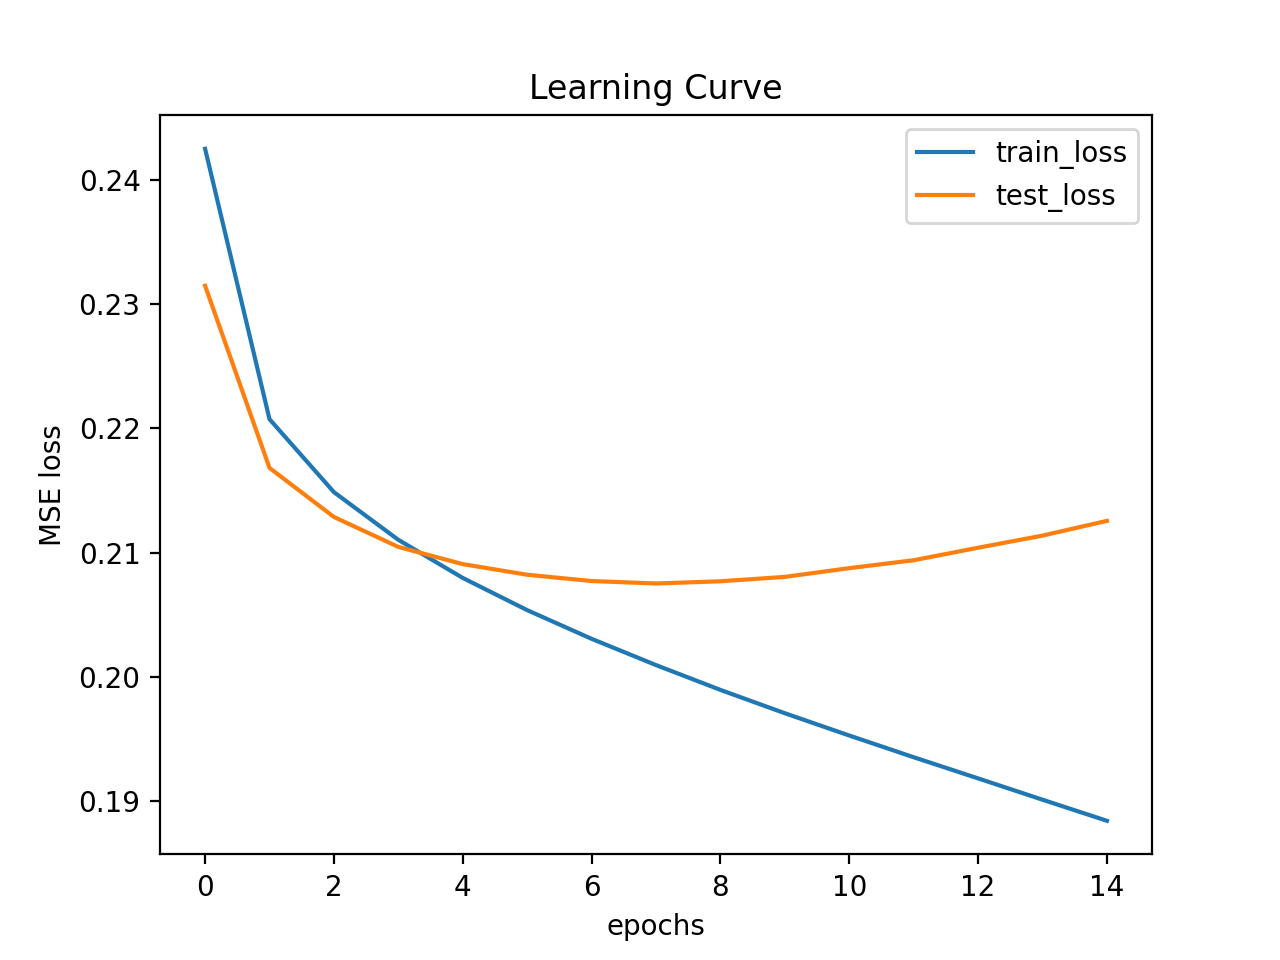
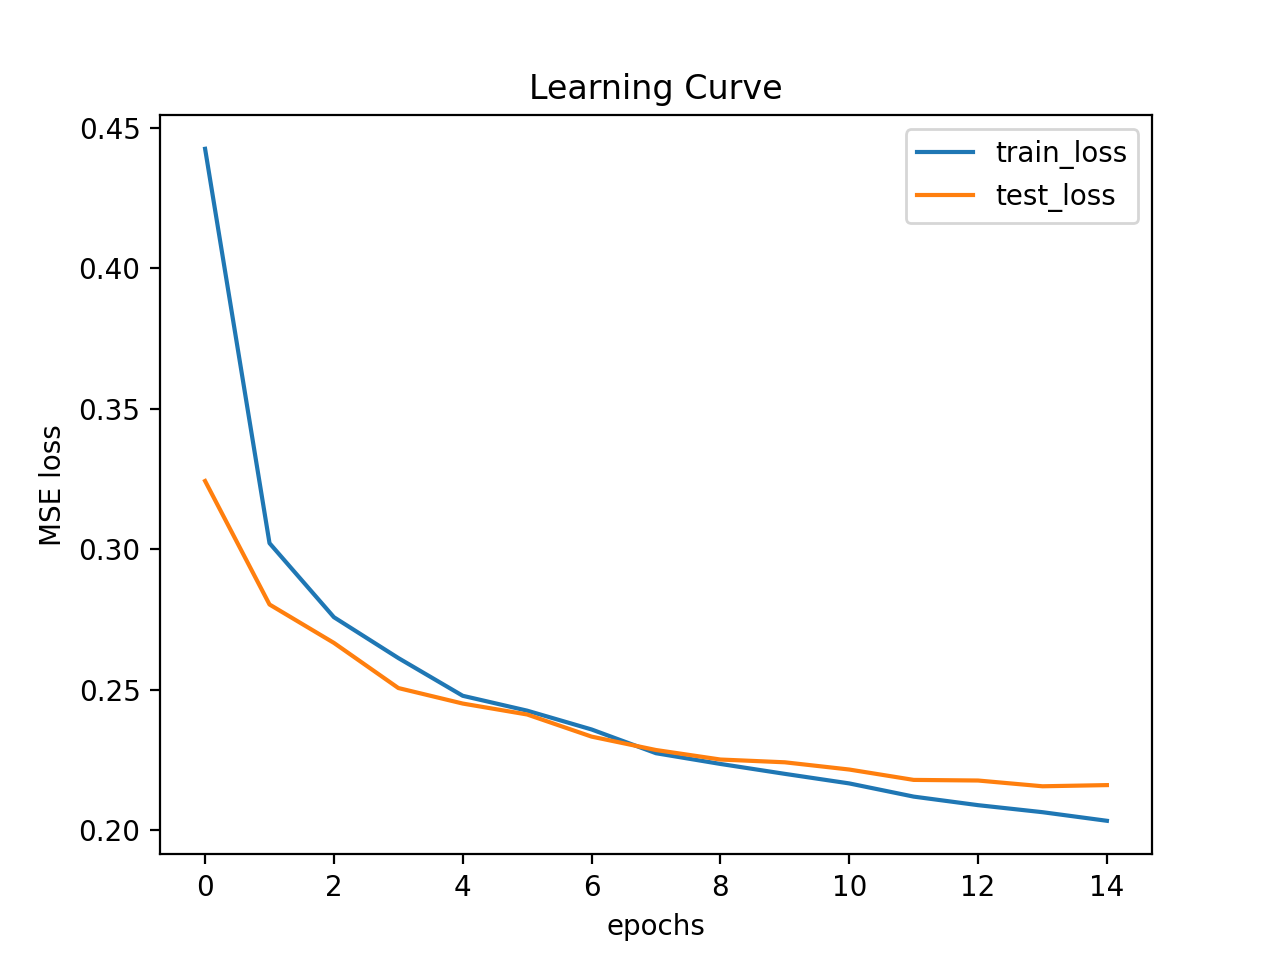
Fully connected net also gives really good results

diff --git a/dvc_plots/index.html b/dvc_plots/index.html
@@ -22,106 +22,106 @@
         "filename": "reports/learning_curve.csv",
         "rev": "workspace",
         "step": 0,
-        "test_loss": "0.23149331799149514",
-        "train_loss": "0.24252057059937054"
+        "test_loss": "0.3242331428229809",
+        "train_loss": "0.4424318687650892"
     },
     {
         "filename": "reports/learning_curve.csv",
         "rev": "workspace",
         "step": 1,
-        "test_loss": "0.21682263094186782",
-        "train_loss": "0.22074929566846954"
+        "test_loss": "0.2802913669794798",
+        "train_loss": "0.30211536537110806"
     },
     {
         "filename": "reports/learning_curve.csv",
         "rev": "workspace",
         "step": 2,
-        "test_loss": "0.21287309649586678",
-        "train_loss": "0.21487228267888228"
+        "test_loss": "0.2666227947026491",
+        "train_loss": "0.2757660750316249"
     },
     {
         "filename": "reports/learning_curve.csv",
         "rev": "workspace",
         "step": 3,
-        "test_loss": "0.2104618386477232",
-        "train_loss": "0.2110318397598134"
+        "test_loss": "0.2505661318153143",
+        "train_loss": "0.26123481104274593"
     },
     {
         "filename": "reports/learning_curve.csv",
         "rev": "workspace",
         "step": 4,
-        "test_loss": "0.209076359719038",
-        "train_loss": "0.20796417510178353"
+        "test_loss": "0.2450414143502712",
+        "train_loss": "0.2478051434904337"
     },
     {
         "filename": "reports/learning_curve.csv",
         "rev": "workspace",
         "step": 5,
-        "test_loss": "0.20822078353166582",
-        "train_loss": "0.2053701833387216"
+        "test_loss": "0.24114913828670978",
+        "train_loss": "0.24251369443701373"
     },
     {
         "filename": "reports/learning_curve.csv",
         "rev": "workspace",
         "step": 6,
-        "test_loss": "0.20771404089033604",
-        "train_loss": "0.20306191802024842"
+        "test_loss": "0.23328052881360054",
+        "train_loss": "0.23582216200232506"
     },
     {
         "filename": "reports/learning_curve.csv",
         "rev": "workspace",
         "step": 7,
-        "test_loss": "0.20751594042778015",
-        "train_loss": "0.2009457196874751"
+        "test_loss": "0.22851061981916426",
+        "train_loss": "0.22737309580047926"
     },
     {
         "filename": "reports/learning_curve.csv",
         "rev": "workspace",
         "step": 8,
-        "test_loss": "0.20769414994120597",
-        "train_loss": "0.19894721223248377"
+        "test_loss": "0.22512784832715987",
+        "train_loss": "0.22355623493426377"
     },
     {
         "filename": "reports/learning_curve.csv",
         "rev": "workspace",
         "step": 9,
-        "test_loss": "0.2080470857769251",
-        "train_loss": "0.19706834500531356"
+        "test_loss": "0.2241418568789959",
+        "train_loss": "0.22002957125173675"
     },
     {
         "filename": "reports/learning_curve.csv",
         "rev": "workspace",
         "step": 10,
-        "test_loss": "0.20875018662214279",
-        "train_loss": "0.19527451326284143"
+        "test_loss": "0.221567019328475",
+        "train_loss": "0.21662654746572177"
     },
     {
         "filename": "reports/learning_curve.csv",
         "rev": "workspace",
         "step": 11,
-        "test_loss": "0.20938788324594498",
-        "train_loss": "0.19352589137521056"
+        "test_loss": "0.2178778909444809",
+        "train_loss": "0.21193329290217824"
     },
     {
         "filename": "reports/learning_curve.csv",
         "rev": "workspace",
         "step": 12,
-        "test_loss": "0.21039460936188698",
-        "train_loss": "0.19182122966812717"
+        "test_loss": "0.21765846487879753",
+        "train_loss": "0.20888947623471418"
     },
     {
         "filename": "reports/learning_curve.csv",
         "rev": "workspace",
         "step": 13,
-        "test_loss": "0.2113719708174467",
-        "train_loss": "0.19010545528266165"
+        "test_loss": "0.21561081457138062",
+        "train_loss": "0.20639150448640187"
     },
     {
         "filename": "reports/learning_curve.csv",
         "rev": "workspace",
         "step": 14,
-        "test_loss": "0.2125582264214754",
-        "train_loss": "0.18840617873602444"
+        "test_loss": "0.21602773994207383",
+        "train_loss": "0.2033262642837233"
     },
     {
         "filename": "reports/learning_curve.csv",

diff --git a/reports/report.md b/reports/report.md
@@ -1,39 +1,19 @@
-# Report about training model **TorchSensorNN5S_norm_deep**
+# Report about training model **TorchSensorNN**
 ## Architecture summary
 ```
 
-TorchSensorNN5S_norm_deep(
-  (conv1): Sequential(
-    (0): Conv2d(1, 8, kernel_size=(3, 1), stride=(1, 1), padding=same)
-    (1): ReLU()
-  )
-  (block1): Sequential(
-    (0): MaxPool2d(kernel_size=(2, 1), stride=(2, 1), padding=0, dilation=1, ceil_mode=False)
-    (1): InstanceNorm2d(8, eps=1e-05, momentum=0.1, affine=True, track_running_stats=True)
-    (2): Conv2d(8, 64, kernel_size=(3, 1), stride=(1, 1), padding=same)
-    (3): ReLU()
-    (4): MaxPool2d(kernel_size=(2, 1), stride=(2, 1), padding=0, dilation=1, ceil_mode=False)
-    (5): InstanceNorm2d(64, eps=1e-05, momentum=0.1, affine=True, track_running_stats=True)
-  )
-  (pool1): MaxPool2d(kernel_size=(4, 1), stride=(4, 1), padding=0, dilation=1, ceil_mode=False)
-  (block2): Sequential(
-    (0): Conv2d(72, 128, kernel_size=(3, 1), stride=(1, 1), padding=same)
-    (1): ReLU()
-    (2): MaxPool2d(kernel_size=(2, 1), stride=(2, 1), padding=0, dilation=1, ceil_mode=False)
-    (3): InstanceNorm2d(128, eps=1e-05, momentum=0.1, affine=True, track_running_stats=True)
-    (4): Conv2d(128, 128, kernel_size=(3, 1), stride=(1, 1), padding=same)
-    (5): MaxPool2d(kernel_size=(2, 1), stride=(2, 1), padding=0, dilation=1, ceil_mode=False)
-  )
-  (conv2): Sequential(
-    (0): Conv2d(200, 64, kernel_size=(1, 4), stride=(1, 1))
-    (1): ReLU()
-  )
-  (linear): Sequential(
-    (0): Linear(in_features=256, out_features=195, bias=True)
-    (1): ReLU()
-    (2): Linear(in_features=195, out_features=900, bias=True)
-    (3): ReLU()
-    (4): Linear(in_features=900, out_features=4096, bias=True)
+TorchSensorNN(
+  (sequential): Sequential(
+    (0): Flatten(start_dim=1, end_dim=-1)
+    (1): Linear(in_features=256, out_features=600, bias=True)
+    (2): ReLU()
+    (3): Linear(in_features=600, out_features=600, bias=True)
+    (4): ReLU()
+    (5): Linear(in_features=600, out_features=600, bias=True)
+    (6): ReLU()
+    (7): Linear(in_features=600, out_features=4096, bias=True)
+    (8): ReLU()
+    (9): Unflatten(dim=1, unflattened_size=torch.Size([64, 64]))
   )
 )
 
